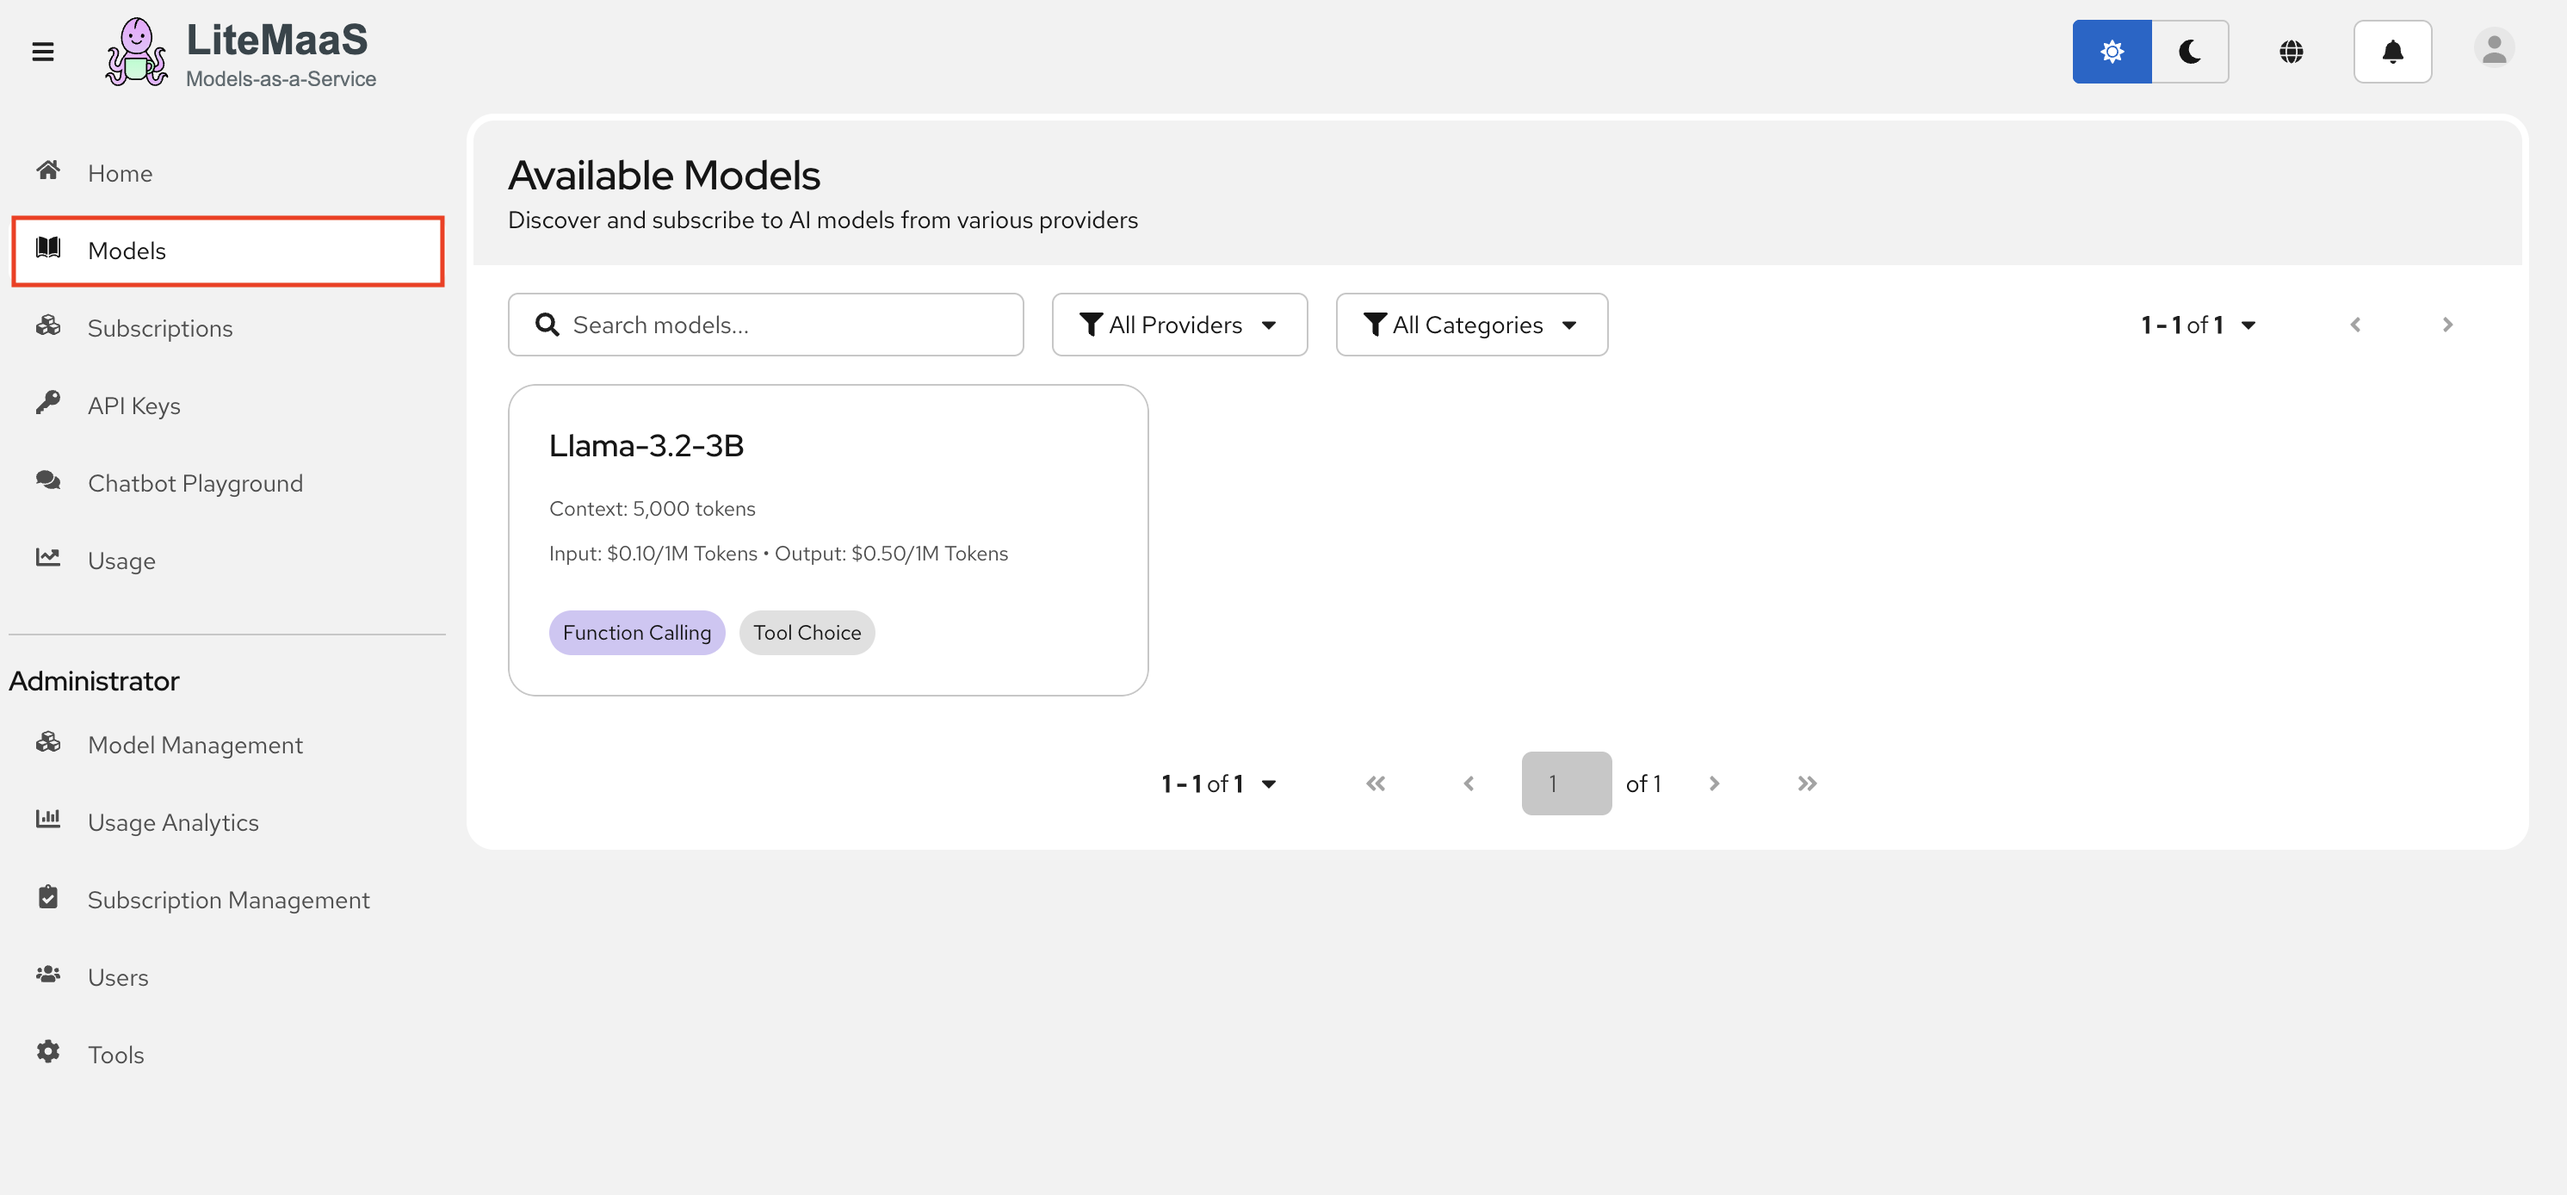
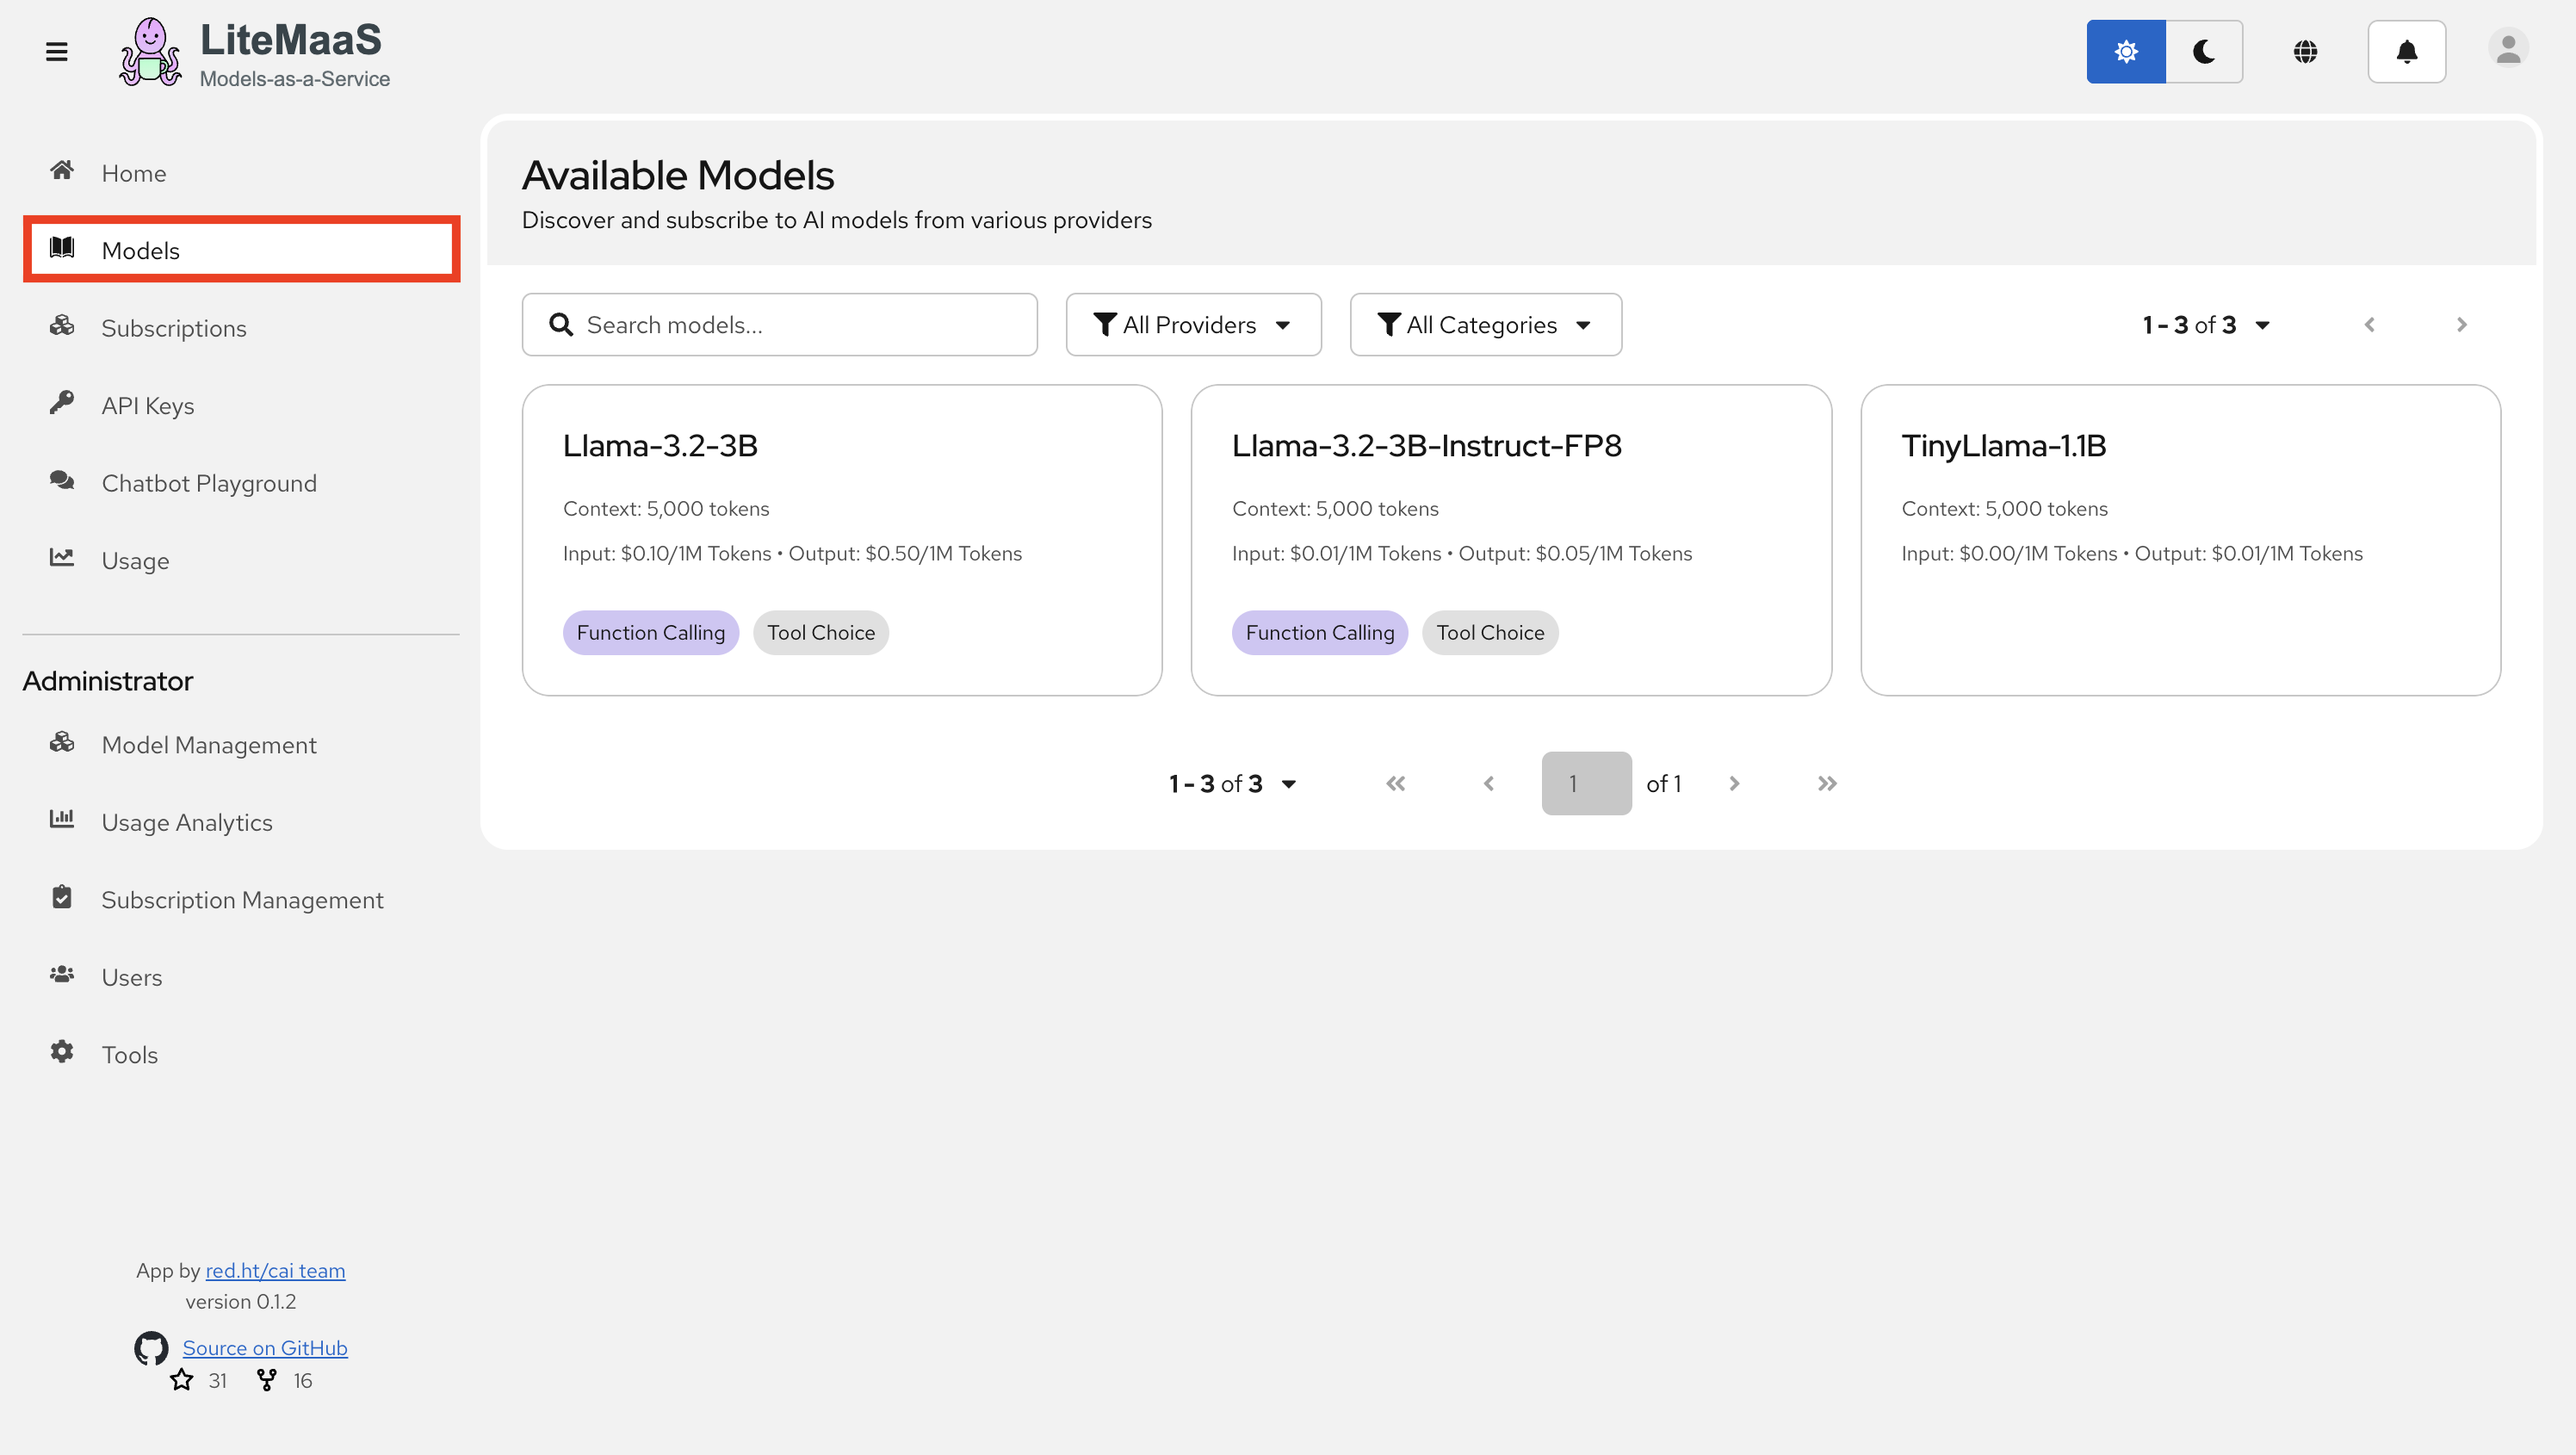
🎄 xmas updates

diff --git a/docs/11-maas/2-deploy-litemaas.md b/docs/11-maas/2-deploy-litemaas.md
@@ -104,7 +104,7 @@ Up to now, we’ve been using Helm to package and parameterize Kubernetes manife
 Under `litemaas/deployment/openshift` folder, we need to create a `user-values.env` file.
 
 ```bash
-touch litemaas/deployment/openshift/user-values.env
+touch deployment/openshift/user-values.env
 ```
 and paste the below values to this newly created file.
 
@@ -113,6 +113,7 @@ LITEMAAS_VERSION=0.1.2
 CLUSTER_DOMAIN_NAME=<CLUSTER_DOMAIN>
 NAMESPACE=<USER_NAME>-maas
 PG_ADMIN_PASSWORD=change-me-pg-password
+NODE_TLS_REJECT_UNAUTHORIZED=0
 JWT_SECRET=change-me-secure-jwt-secret-for-production
 OAUTH_CLIENT_ID=litemaas-<USER_NAME>
 OAUTH_CLIENT_SECRET=change-me-oauth-secret # 👈 we are going to change it in a moment 
@@ -195,6 +196,18 @@ Run the below command to kick off the deployment:
    oc apply -k .
   ```
 
+**Note:** Do not worry about the error below. It won't affect the installation. It happens because your user doesn't have enough privilege to edit a namespace.
+
+  <div class="highlight" style="background: #f7f7f7; overflow-x: auto; padding: 8px;">
+    <pre><code class="language-bash"> 
+    Error from server (Forbidden): error when applying patch:
+    {"metadata":{"annotations":{"kubectl.kubernetes.io/last-applied-configuration":"{\"apiVersion\":\"v1\",\"kind\":\"Namespace\",\"metadata\":{\"annotations\":{},\"labels\":{\"app.kubernetes.io/component\":\"<USER_NAME>-maas\",\"app.kubernetes.io/instance\":\"litemaas\",\"app.kubernetes.io/name\":\"litemaas\",\"app.kubernetes.io/part-of\":\"litemaas\",\"app.kubernetes.io/version\":\"0.1.2\",\"name\":\"<USER_NAME>-maas\"},\"name\":\"<USER_NAME>-maas\"}}\n"},"labels":{"app.kubernetes.io/component":"<USER_NAME>-maas","app.kubernetes.io/instance":"litemaas","app.kubernetes.io/name":"litemaas","app.kubernetes.io/part-of":"litemaas","app.kubernetes.io/version":"0.1.2","name":"<USER_NAME>-maas"}}}
+    to:
+    Resource: "/v1, Resource=namespaces", GroupVersionKind: "/v1, Kind=Namespace"
+    Name: "<USER_NAME>-maas", Namespace: ""
+    for: ".": error when patching ".": namespaces "<USER_NAME>-maas" is forbidden: User "<USER_NAME>" cannot patch resource "namespaces" in API group "" in the namespace "<USER_NAME>-maas"
+   </code></pre>
+  </div>
 
 ### 4.3 Watch the Deployment
 
@@ -213,20 +226,6 @@ You should see:
 
 Do `Ctrl + C` to break the watch.
 
-### 4.4 Verify Services
-
-```bash
-# Check all services are running
-oc get svc -n <USER_NAME>-maas
-```
-
-### 4.5 Get the Route URL
-
-```bash
-# Find your LiteMaaS URL
-oc get route litemaas -n <USER_NAME>-maas -o jsonpath='{.spec.host}'
-```
-
 ---
 
 ## ✨ Step 5: Access the LiteMaaS UI
@@ -234,7 +233,7 @@ oc get route litemaas -n <USER_NAME>-maas -o jsonpath='{.spec.host}'
 Open your browser and navigate to:
 
 ```
-https://litemaas-<USER_NAME>-maas.apps.<CLUSTER_DOMAIN>
+https://litemaas-<USER_NAME>-maas.<CLUSTER_DOMAIN>
 ```
 
 You should see the LiteMaaS login page! Use your OpenShift credentials to login!
@@ -247,56 +246,86 @@ By default you have admin privileges. That's why you have the `Administrator` se
 
 ## 🔗 Step 6: Configure Model Connections
 
-LiteMaaS uses LiteLLM as its backend proxy. We need to tell LiteLLM about our available models.
+LiteMaaS uses [LiteLLM](https://github.com/BerriAI/litellm) as its backend proxy. We need to tell LiteLLM about our available models.
 
-### 6.1 Get Your Model Endpoints
+### 6.1 Add Llama 3.2 3B to MaaS
 
-Let's get the inference service URL for the model we've been using for Canopy.
-
-```bash
-oc get inferenceservice llama-32 -n ai501 -o jsonpath='{.status.url}'
-```
-
-### 6.2 Update LiteLLM Configuration
-
-1. Go to `Administator` > `Model Management`  and click `Create Model`.
+1. Let's add our initial cloud model to our  first. Go to `Administator` > `Model Management`  and click `Create Model`.
 
   ![create-model.png](./images/create-model.png)
 
 2. Fill out the form as below:
 
-**Model Name:** `Llama-3.2-3B`
-**Description:** `Meta Llama 3.2 3B is a lightweight 3B-parameter, multilingual text-only LLM`
-**API Base URL:** `http://llama-32-predictor.ai501.svc.cluster.local:8080/v1`
-**Backend Model Name:** `llama32`  
-**API Key:** `fakekey`
-**Input Cost per Million Tokens:** `0,1`
-**Output Cost per Million Tokens:** `0,5` (or you can use your imagination for cost values 💸💸💸)
-**Features:** You can select `Supports Function Calling` and `Supports Tool Choice`
+  **Model Name:** `Llama-3.2-3B`
 
-![maas-model-config.png](./images/maas-model-config.png)
+  **Description:** `Meta Llama 3.2 3B is a lightweight 3B-parameter, multilingual text-only LLM`
 
-Leave the others default and hit `Create`
+  **API Base URL:** `http://llama-32-predictor.ai501.svc.cluster.local:8080/v1`
 
-![maas-model.png](./images/maas-model.png)
+  **Backend Model Name:** `llama32`  
 
----
+  **API Key:** `fakekey`
 
-## 🎯 What You've Accomplished
+  **Input Cost per Million Tokens:** `0,1`
 
-As the AI Engineer, you've just:
+  **Output Cost per Million Tokens:** `0,5` (or you can use your imagination for cost values 💸💸💸)
 
-* ✅ Deployed a complete MaaS platform on OpenShift
-* ✅ Configured OAuth for seamless authentication
-* ✅ Connected existing Llama 3.2 3B endpoint through LiteLLM
-* ✅ Set up the foundation for centralized model access
+  **Features:** You can select `Supports Function Calling` and `Supports Tool Choice`
 
-![maas-models-list.png](./images/maas-models-list.png)
+
+  ![maas-model-config.png](./images/maas-model-config.png)
+
+  Leave the others default and hit `Create`
+
+  ![maas-model.png](./images/maas-model.png)
+
+3. If you want, you can add your `TinyLlama` and quantized `Llama-3.2-3B-Instruct-FP8` to your MaaS for others to use them. 
+
+  You can use the below options to add them:
+
+  <details>
+  <summary>TinyLLama</summary>
+
+    **Model Name:** `TinyLlama-1.1B`
+
+    **Description:** `TinyLlama is a compact 1.1B parameter language model`
+
+    **API Base URL:** `http://tinyllama-predictor.<USER_NAME>-canopy.svc.cluster.local:8080/v1`
+
+    **Backend Model Name:** `tinyllama`  
+
+    **API Key:** `fakekey`
+
+    **Input Cost per Million Tokens:** `0,001`
+
+    **Output Cost per Million Tokens:** `0,005`
+
+  </details>
+
+  <details>
+  <summary>Llama-3.2-3B-Instruct-FP8</summary>
+
+    **Model Name:** `Llama-3.2-3B-Instruct-FP8`
+
+    **Description:** `Meta Llama 3.2 3B Instruct quantized to FP8 for efficient inference`
+
+    **API Base URL:** `http://llama-32-fp8-predictor.ai501.svc.cluster.local:8080/v1`
+
+    **Backend Model Name:** `RedHatAI/Llama-3.2-3B-Instruct-FP8`  
+
+    **API Key:** `fakekey`
+
+    **Input Cost per Million Tokens:** `0,01`
+
+    **Output Cost per Million Tokens:** `0,05`
+
+    **Features:** You can select `Supports Function Calling` and `Supports Tool Choice`
+  </details>
+
+  ![maas-models-list.png](./images/maas-models-list.png)
 
 ---
 
 ## 🎯 Next Steps
 
 Your infrastructure is ready! Now it's time to hand off to the 👩💼 **Service Admin** to configure users, roles, and budgets.
-
-**Continue to [Admin Configuration](11-maas/3-admin-configuration.md)** →

diff --git a/docs/6-honor-code/3-automate-checks.md b/docs/6-honor-code/3-automate-checks.md
@@ -122,24 +122,29 @@ Spikee, as their [website](https://spikee.ai/) says, is a Simple Prompt Injectio
     Attack Success Rate (Improvement from Dynamic Attack): 0.00%
     ```
 
-8. This was only a couple prompts though. If you'd like to do a more realistic test, you can create a dataset based on the different tests provided by Spikee under `dataset` folder. It'll take some time (like ~7 hours with this setup) but then it'll give you a more realistic results. If you are still curious;
-
-    Let's generate the dataset:
+8. This was only a couple prompts though. If you'd like to do a more realistic test, you can run a test based on the different datasets provided by Spikee under `dataset` folder. But these datasets are huge, for example `seeds-cybersec-2025-04` would take ~7 hours with our setup, but then it'll give you a more realistic results. If you are still curious; this is how you can use the existing dataset:
 
     ```bash
     spikee generate --seed-folder datasets/seeds-cybersec-2025-04 --plugins 1337 --tag mytest
     ```
 
-    And start the test by pointing to the generated dataset:
+    And then you can start the test by pointing to the generated dataset as below. ‼ BUUUTT, as in all good cooking shows, you don't have to wait for the results. We got you covered! Continue to read for the results 😌
 
-    ```bash
+    <div class="highlight" style="background: #f7f7f7; overflow-x: auto; padding: 8px;">
+    <pre><code class="language-bash"> 
     spikee test --dataset datasets/cybersec-2025-04-user-input-mytest-dataset-*.jsonl --target llama_stack_shields  --attack best_of_n --attack-iterations 1
-    ```
-9. Let's check the results:
+    </code></pre> 
+    </div>
 
-    ```bash
+9. After some waiting, when we checked the results with below command..
+
+    <div class="highlight" style="background: #f7f7f7; overflow-x: auto; padding: 8px;">
+    <pre><code class="language-bash"> 
     spikee results analyze --result-file  results/results_llama_stack_shields-shields_enabled_cybersec-2025-04-user-input-mytest-dataset*.jsonl | sed -n '1,/=== Breakdown by Jailbreak Type ===/p' | head -n -1
-    ```  
+    </code></pre> 
+    </div>  
+
+    ..and this is what we got:
 
     ```bash
     _____ _____ _____ _  ________ ______ 
@@ -165,4 +170,4 @@ Spikee, as their [website](https://spikee.ai/) says, is a Simple Prompt Injectio
     Attack Success Rate (Without Dynamic Attack): 27.30%
     Attack Success Rate (Improvement from Dynamic Attack): 10.20%
     ```
-    You can check the details in the report and see wat kind of attacks got successfull and see what you need to improve (maybe a better prompt injection model or retrain the existing one, maybe some simple addition to regex..)
+    When you run such test, you can check the details in the report and see what kind of attacks got successfull and plan what you need to improve; maybe a better prompt injection model or retrain the existing one, maybe some simple additions to regex..
